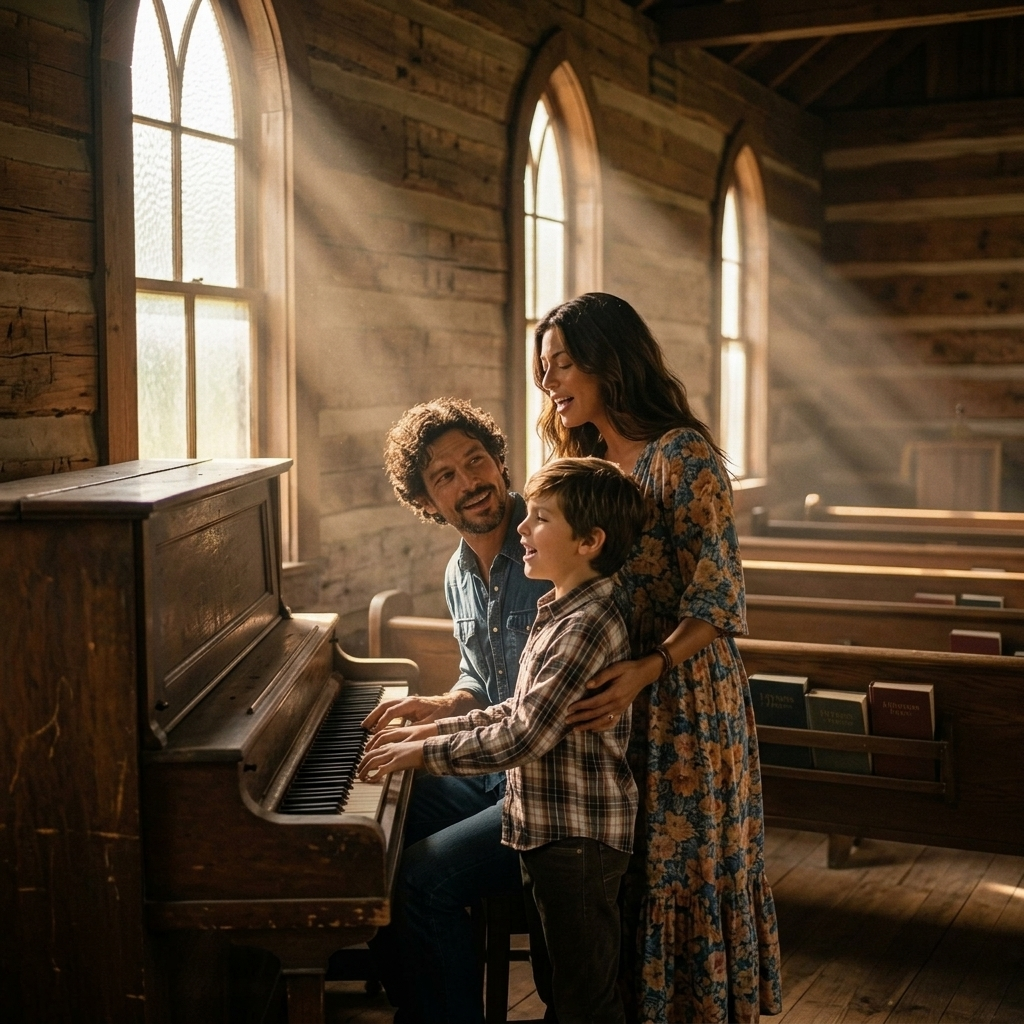
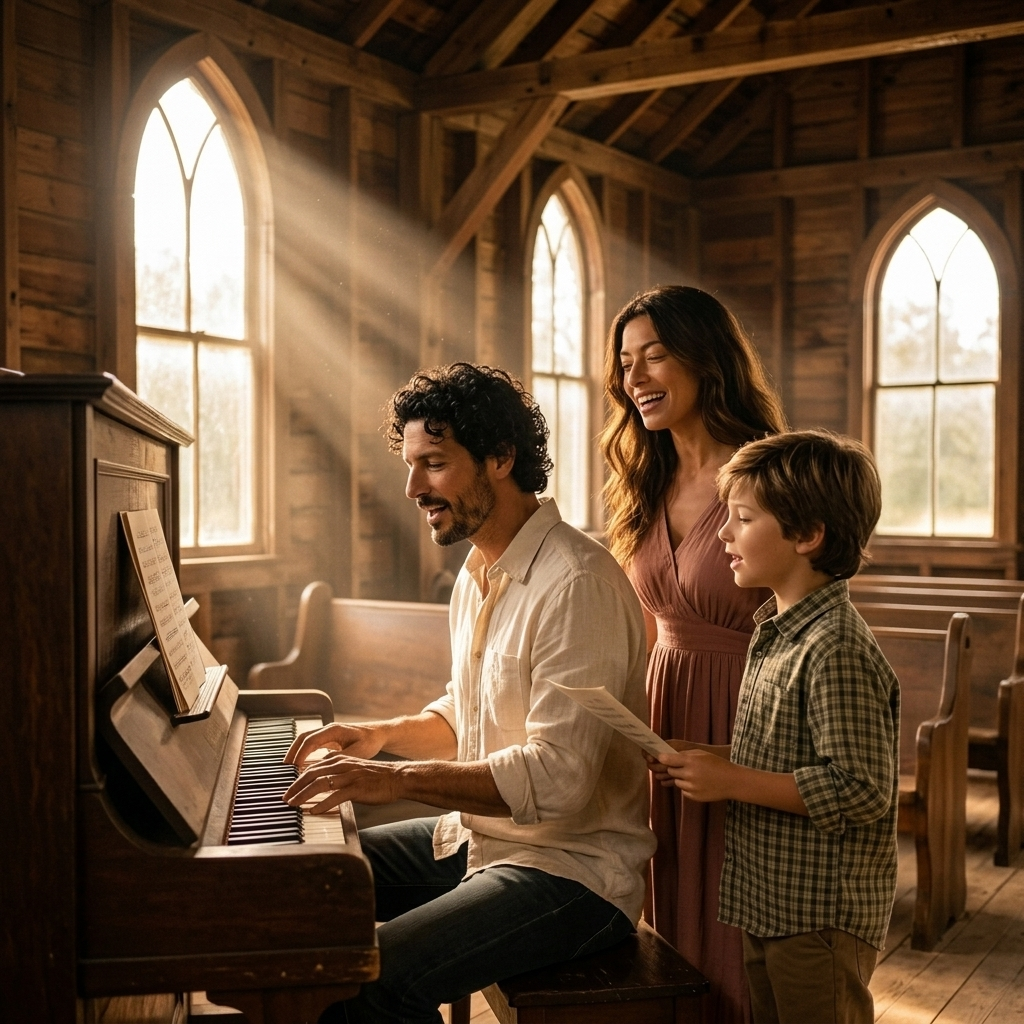
Diversify backstory clothes and add Chapters 17-20

diff --git a/app/about/page.tsx b/app/about/page.tsx
@@ -83,6 +83,26 @@ export default function ArtistLibrary() {
       src: "/images/ryker_homecoming_concert.png",
       title: "Homecoming Lights",
       desc: "Performing an acoustic set for local friends and family in Columbia."
+    },
+    {
+      src: "/images/ryker_joyce_morning_coffee.png",
+      title: "Morning Deck Coffee",
+      desc: "Quiet early hours talking and laughing with Joyce over warm mugs of coffee."
+    },
+    {
+      src: "/images/ryker_teaching_graham.png",
+      title: "Teaching Graham",
+      desc: "Teaching his son Graham how to form chords on his first junior acoustic guitar."
+    },
+    {
+      src: "/images/ryker_grooming_horse.png",
+      title: "Ranch Horse Grooming",
+      desc: "Working side by side with Graham brushing down their chestnut horse, Poppy, in the stables."
+    },
+    {
+      src: "/images/family_campfire_jam.png",
+      title: "Campfire Jam",
+      desc: "Gathered around the warm fire pit at twilight, sharing stories and songs under the stars."
     }
   ];
 
